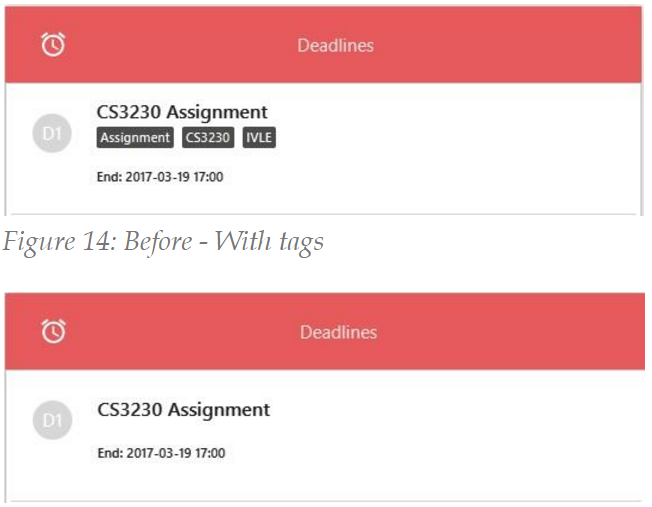
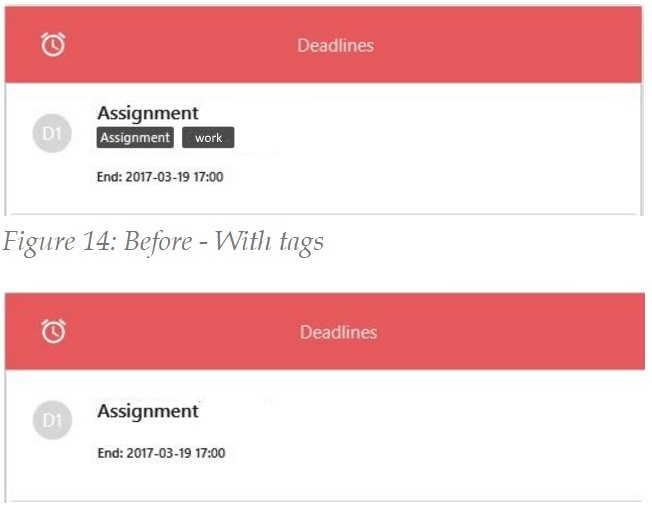
improve ug

Changed region(s): [[0.1227, 0.2071, 0.4294, 0.2959], [0.1227, 0.7692, 0.4294, 0.8284]]

diff --git a/docs/UserGuide.md b/docs/UserGuide.md
@@ -1,9 +1,11 @@
 # User Guide
 
+<img src="images/UG_img/coverPage_user.png" width="600">
+
 - [About](#about)
 - [Getting Started](#getting-started)
 - [Features](#features)
-- [Format](#format)
+- [Command Format](#command-format)
 - [Commands](#commands)
 - [Cheat Sheet](#cheat-sheet)
 - [FAQ](#faq)
@@ -26,24 +28,23 @@ Get started with OneTwoDo today!
 
 ## Getting Started
 
-Before using OneTwoDo, please ensure that you have installed Java version 1.8.0_60 or later as the application does not work with earlier Java 8 versions.
+Before using OneTwoDo, please ensure that you have installed **Java version 1.8.0_60** or later as the application does not work with earlier Java 8 versions.
 
-Start your OneTwoDo journey by downloading the latest OneTwoDo.jar from the releases tab. Download OneTwoDo directly into the home folder you want to use for the app.
+Start your OneTwoDo journey by downloading the latest **OneTwoDo.jar** from the releases tab. Download OneTwoDo directly into the home folder you want to use for the app.
 
 You can start OneTwoDo by simply double-clicking the icon!
-   > <img src="images/UG_img/onetwodo_icon.png" width="600">
+   > <img src="images/UG_img/onetwodo_icon.png" width="10">
 
-Figure 1: OneTwoDo User Interface
+*Figure 1: OneTwoDo User Interface*
 
 Congratulations, you are all set up!
-You may refer to the [Features](#features) section for more details on all the possible commands.
 
 
 ## Features
 
-<img src="images/UG_img/MainWindow_blank.png" width="600">
+<img src="images/UG_img/MainWindow_blank.png" width="800">
 
-Figure 2: OneTwoDo main window
+*Figure 2: OneTwoDo main window*
 
 After you have started OneTwoDo, you will see the following:
 
@@ -61,12 +62,12 @@ Your tasks are separated into 3 categories, where each category is displayed in 
 2. `Event` - This panel displays tasks with a start and end date.
 3. `To-do` - This panel displays tasks without a start or end date.
 
-### Command Format
+## Command Format
     
 - Command words are the first word of the command. (e.g. `find`, or `help`).
 - Command options specifies additional information needed by the command.
     - It consists of a character followed by a forward slash (e.g. `s/`, `t/`, etc), followed by data to be specified after the forward slash if there are any. (e.g. `s/tomorrow 0900`). 
-    - The order of options is not fixed after the task name. (e.g. executing `add Go home p/high i/after class` is the same as executing `add Go home i/after class p/high`).
+    - The order of options is not fixed after the task name. (e.g. executing `add Go home p/high d/after class` is the same as executing `add Go home d/after class p/high`).
     - Options surrounded by square brackets `[ ]` are optional.
     - Options with ellipses `...` after them can be specified multiple times (e.g. `t/Schoolwork t/CS2103`).
     - Options with `|` the pipe symbol means that either option on the left or right should be used.
@@ -98,26 +99,24 @@ OneTwoDo accepts most date and time formats, including:
 * 31st Dec 2016
 * 31st of December
 * Next Tue 3pm
+* Today 0800
 * Tomorrow 5:30am
 * Last Wednesday 0600h
 * 3 days from now
 
 Refer to [http://natty.joestelmach.com/doc.jsp](http://natty.joestelmach.com/doc.jsp) for a full list of supported formats.
+<br>
 
----
+## Commands
 ### Viewing command summary : `help`
 
 Let us assume you are a busy professional. You want to start using OneTwoDo to organize your meetings and projects more efficiently. However, being new to this application, you will definitely need some guidance. Do not worry, simply type `help` and our concised command summary window will pop up to clear your confusion.
-
-=================================================================================================================================================================
-
-`Let's use OneTwoDo as Jim, a busy professional. He wants to start using OneTwoDo to organize all his meetings and projects more efficiently. However, he is confused on how to navigate through OneTwoDo and which command to type. So he simply type `help` and our concised command summary window pops up to clear his confusion.`
 
     >>  help
 
 <img src="images/UG_img/cheetsheet_ss.png" width="600">
 
-Figure 7: Command Summary Window
+*Figure 3: Command Summary Window*
 
 ---
 ### Viewing userguide : `helpug`
@@ -137,7 +136,7 @@ Format: `add NAME [s/START_DATE] [e/END_DATE] [r/RECUR] [d/DESCRIPTION] [p/PRIOR
 
     >>  add Reply Emails 
 
-<img src="images/UG_img/addReplyEmail.png" width="600">
+<img src="images/UG_img/addReplyEmail.png" width="300">
 Figure 8: Add a to-do
 
 
@@ -151,9 +150,9 @@ Oh noes! your boss just now emailed you that there will be an important lunch me
 
     >>  add Lunch Meeting  s/tmr 1pm  e/tmr 3pm  r/weekly  d/bring laptop  p/high  t/work
 
-<img src="images/UG_img/addLunchMeeting.png" width="600">
+<img src="images/UG_img/addLunchMeeting.png" width="800">
 
-Figure 9: Add event task with detailed info
+*Figure 4: Add event task with detailed info*
 
 
 > - `s/`
@@ -170,49 +169,6 @@ Figure 9: Add event task with detailed info
 >   * The task's tag. Every task can have any number of tags.
 
 
-
-
-================================================================================================================================================================================
-`
-Figure 8: Add a to-do
-
-Now, Jim is ready to add his tasks to OneTwoDo. His boss has emailed him that there will be an important lunch meeting from 1-3pm today.
-
-
-    >>  add Meeting s/1pm e/12pm p/h d/lunch meeting with boss t/work
-
-Figure 9: Add incorrect task
-
-Jim realizes his mistake after seeing the error message and corrects it.
-
-    >>  add Meeting s/1pm e/3pm p/h d/lunch meeting with boss t/work
-
-Figure 10: Add Meeting task
-
-It is highlighted in grey to bring Jim's attention to it. 
-
-> A task with a start date and end date is an **Event**_.
-> **Priority** of a task can be high (h), medium (m) or low (l)_.
-
-Jim also remembers that he has to prepare a weekly review report for a new project he is working on.
-
-    >> add InfoSyc Project Review e/Friday r/weekly t/InfoSyc t/work
-
-
-Figure 11: Add Review task
-
-> A task with only an end date is a **Deadline**_.
-> A task can **recur** daily, weekly, monthly or yearly_
-> A task can have multiple **tags** 
-
-After adding all his work-related tasks, he receives a text confirming his travel booking for Hawaii next week! 
-
-    >>  add shopping d/suglasses sunscreen t/hawaii
-
-Figure 12: Add Shopping task
-
-> A task with no date is a **ToDo**.
-`
 ---
 ### Editing a task : `edit`
 
@@ -229,9 +185,9 @@ As for editing tags, all existing tags of the task will be replaced. (i.e adding
 
     >>  edit  e1  t/
 
-<img src="images/UG_img/tagRemove.png" width="600">
+<img src="images/UG_img/tagRemove.png" width="400">
 
-Figure 10: Before and after tags removal
+*Figure 5: Before and after tags removal*
 
 ---
 ### Listing tasks : `list`
@@ -249,9 +205,9 @@ The above command will filter out all the things you need to do from today till 
 
     >>  list  o/priority
 
-<img src="images/UG_img/prioritySort.png" width="600">
+<img src="images/UG_img/prioritySort.png" width="800">
 
-Figure 11: Sort by priority
+*Figure 6: Sort by priority*
 
 
 Also, sometimes you may be so busy that you have forgotten if you have replied an important email.
@@ -261,9 +217,9 @@ Also, sometimes you may be so busy that you have forgotten if you have replied a
 
 All your completed tasks are listed! The feeling of satisfaction after seeing all the tasks you have successfully accomplished is indescribable! But it looks like you haven't reply the email.
 
-<img src="images/UG_img/doneFilter.png" width="600">
+<img src="images/UG_img/doneFilter.png" width="800">
 
-Figure 13: Filter all completed tasks
+*Figure 7: Filter all completed tasks*
 
 > - `o/` refers to ordering or sorting. You can sort by *priority*, *alphanumeric* and *dateTime*.
 > - You can also filter and sort your tasks with multiple parameters. Only tasks that has met those parameters' requirement will appear.
@@ -285,9 +241,9 @@ Format: `find KEYWORD [MORE_KEYWORDS]...`
 >   Shows any task having names, tags, or description which contain any of the keywords: **birthday**, **shopping** and **assignment**.
 
 
-<img src="images/UG_img/findCommand.png" width="600">
+<img src="images/UG_img/findCommand.png" width="800">
 
-Figure 11: find task
+*Figure 8: Find task*
 
 
 ---
